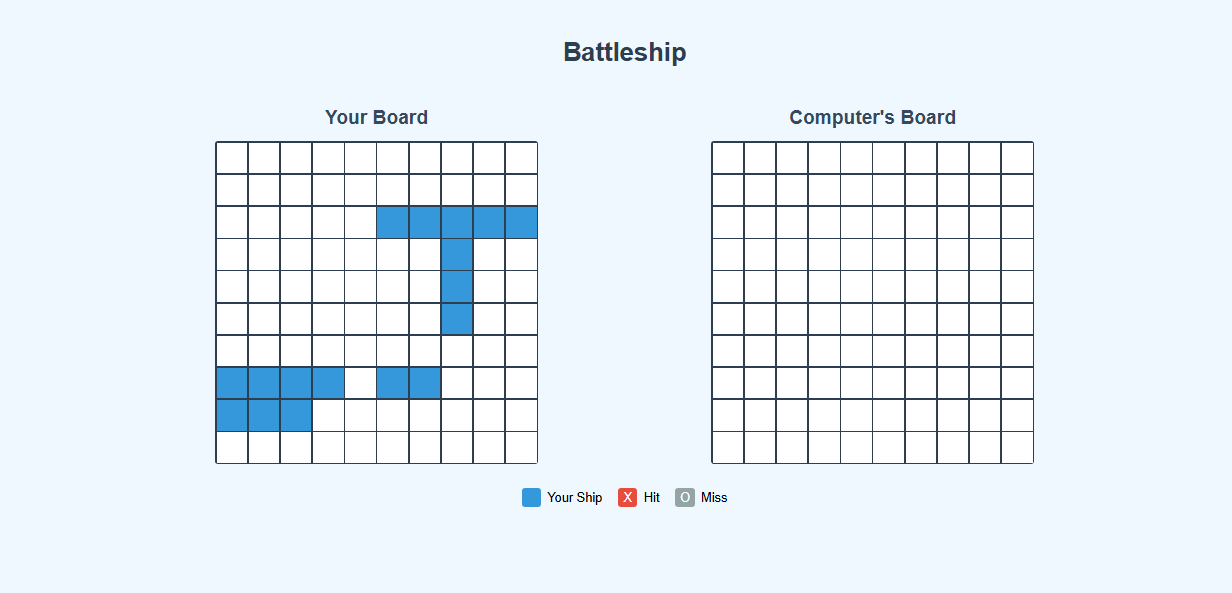
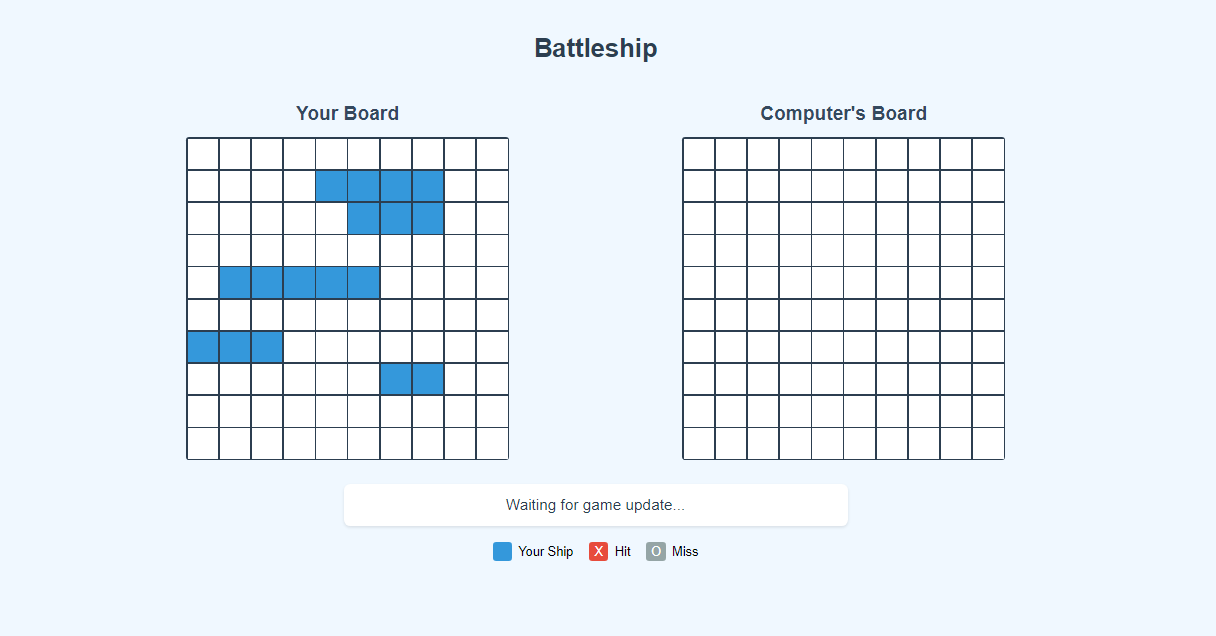
updated the update status display and worked on the timeout for the computer's turn

Changed region(s): [[0.125, 0.1518, 0.5938, 0.8803], [0.5625, 0.1518, 0.8438, 0.7892], [0.4375, 0.0607, 0.5625, 0.1214]]

diff --git a/battleship_game_web/battleship_game/templates/game.html b/battleship_game_web/battleship_game/templates/game.html
@@ -4,7 +4,6 @@
     <meta charset="UTF-8">
     <title>Battleship Game</title>
     <link rel="stylesheet" href="{{ url_for('static', filename='css/style.css') }}">
-    <script src="{{ url_for('static', filename='js/game.js') }}"></script>
 </head>
 <body>
     <div class="game-container">
@@ -21,7 +20,9 @@
                 <div id="computer-board" class="board"></div>
             </div>
         </div>
-
+        
+        <div class="game-status" id="game-status">Waiting for game update...</div>
+        
         <div class="legend">
             <div class="legend-item">
                 <span class="legend-marker ship"></span> Your Ship
@@ -47,6 +48,7 @@
         </div>
     </div>
 
+    <script src="{{ url_for('static', filename='js/game.js') }}"></script>
     <script>
         const gridSize = {{ grid_size }};
         const playerBoard = {{ player_board | tojson }};

diff --git a/battleship_game_web/battleship_game/static/js/game.js b/battleship_game_web/battleship_game/static/js/game.js
@@ -73,9 +73,11 @@ function makeMove(row, col) {
             return;
         }
 
+        updateStatus("Computer is thinking...");
+
+
         // Handle computer's move with delay
         setTimeout(() => {
-            updateStatus("Computer is thinking...");
             fetch('/computer_turn', {
                 method: 'POST'
             })
@@ -96,7 +98,7 @@ function makeMove(row, col) {
                 isPlayerTurn = true;
                 updateStatus("Error occurred. Your turn!");
             });
-        }, 1000);
+        }, 1500);
     })
     .catch(error => {
         console.error('Error during player move:', error);
